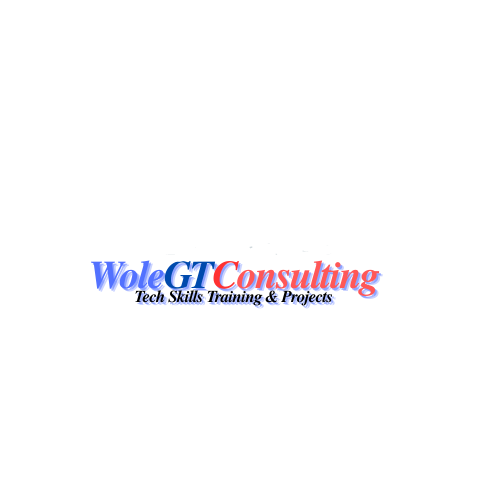
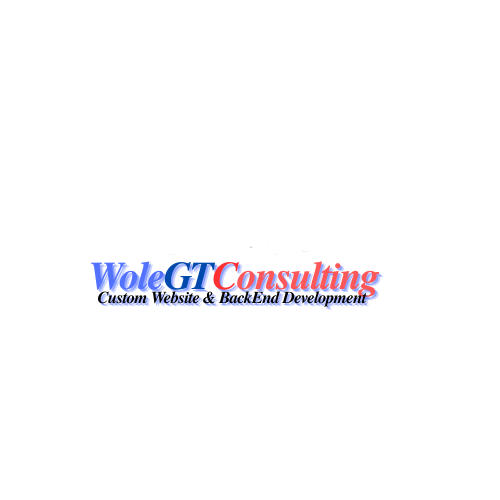
updates

Changed region(s): [[0.18, 0.51, 0.78, 0.63]]

diff --git a/index.html b/index.html
@@ -4,11 +4,12 @@
     <meta charset="utf-8">
     <meta name="viewport" content="width=device-width, initial-scale=1">
     <title>WoleGTConsulting</title>
-    <meta name="Keyword" Content="Web developer, Front-End Development, Back-End Development, Web App Development, Tech Training">
-    <meta name="Keyword" Description="Tech Skills Training, Website Development, Custom Website Solutions">
+    <meta name="Keyword" Content="Custom Website Development,Back-End Freelance Services">
+    <meta name="Keyword" Description="Website Development, Custom Website Solutions">
+    <meta name="Keyword" Author="Wole George-Taylor">
     <link href="https://cdn.jsdelivr.net/npm/bootstrap@5.3.3/dist/css/bootstrap.min.css" rel="stylesheet" integrity="sha384-QWTKZyjpPEjISv5WaRU9OFeRpok6YctnYmDr5pNlyT2bRjXh0JMhjY6hW+ALEwIH" crossorigin="anonymous">
     <link rel="stylesheet" href="https://cdn.jsdelivr.net/npm/bootstrap-icons@1.11.3/font/bootstrap-icons.min.css">
-    <link rel="icon" href="./image/WoleGTConsulting0. (1).png">
+    <link rel="icon" href="./image/WoleGTConsulting2.png">
     
     
     <meta name="Keyword" Author=" Wole George-Taylor">
@@ -72,7 +73,7 @@
             <div class="col-md-12" myClassname>
               <nav class="navbar navbar-expand-lg bg-body-black">
                 <div class="container-fluid">
-                  <a class="navbar-brand links" href="#" style="color: navy;">Wole<span style="color:red">GT</span></a>
+                  <a class="navbar-brand links" href="#" style="color: blue;">Wole<span style="color: navy;">GT</span><span style="color:red">Counsulting</span></a>
                   <button class="navbar-toggler" type="button" data-bs-toggle="collapse" data-bs-target="#navbarSupportedContent" aria-controls="navbarSupportedContent" aria-expanded="false" aria-label="Toggle navigation">
                     <span class="navbar-toggler-icon"></span>
                   </button>
@@ -83,13 +84,13 @@
                       </li>
                       <li class="nav-item dropdown">
                         <a class="nav-link dropdown-toggle links" href="#" role="button" data-bs-toggle="dropdown" aria-expanded="false">
-                          Projects
+                          Projects executed
                         </a>
                         <ul class="dropdown-menu">
-                          <li><a class="dropdown-item" href="https://spicytravelsntour.com">Laravel-front & back end</a></li>
-                          <li><a class="dropdown-item" href="https://theolayemipaul.vercel.app">Book Author Website-WIP</a></li>
+                          <li><a class="dropdown-item" href="https://spicytravelsntour.com">Travel Company</a></li>
+                          <li><a class="dropdown-item" href="https://theolayemipaul.vercel.app">Personal/Book Author</a></li>
                           <li><hr class="dropdown-divider"></li>
-                          <li><a class="dropdown-item" href="./Javascript.html">E-Commerce Web Promotion</a></li>
+                          <li><a class="dropdown-item" href="https://hapilicious-cake.vercel.app/">Startups</a></li>
                         </ul>
                       </li>
                       <li class="nav-item">
@@ -118,7 +119,7 @@
                       
                     </ul>  
                        <!-- <a href="www.goggle.com/wolegtaylor@gmail.com" class="btn btn-outline-success">Send me an Email</a>   -->
-                       <p><a class="emails" href="mailto:info@woleg.tech" target="_blank"><i class="bi bi-envelope"></i> info@wolegt.tech</a></p>
+                       <p><a class="emails" href="mailto:info@woleg.tech" target="_blank"><i class="bi bi-envelope"></i> info@wolegtconsulting.dev</a></p>
                        <br>
                        <!-- <div><a class="" href="" target="_blank"><i class="bi bi-telephone"></i> +234 8023653151</a></div> -->
                        <!-- <button type="button" class="btn btn-success a href="wolegtaylor@gmail.com" >Send me an Email</button> -->
@@ -130,7 +131,7 @@
            <!-- navbar -->
            <!-- body starts here -->
            <div class="col-md-6">
-             <button type="button" class="btn btn-outline-dark" onclick="typeWriter()">Hey, click me </button>
+             <button type="button" class="btn btn-outline-dark" onmouseover="typeWriter()">What we do</button>
              <p id="demo" style="font-size: 30px; color: aquamarine;padding-left: 20px; padding-top: 10px;  border-left: 6px solid black;"></p>            
            </div>
            <div class="col-md-6">
@@ -145,7 +146,10 @@
                   <img src="./image/Screenshot_20241031-121612.png" class="d-block w-100 img-fluid pix" alt="...">
                 </div>
                 <div class="carousel-item">
-                  <img src="./image/Screenshot_20241031-123149_1.png" class="d-block w-100 img-fluid pix" alt="...">
+                  <img src="./image/image-03.jpg" class="d-block w-100 img-fluid pix" alt="...">
+                </div>
+                <div class="carousel-item">
+                  <img src="./image/WoleGTConsulting2.png" class="d-block w-100 img-fluid pix" alt="...">
                 </div>
               </div>
               <button class="carousel-control-prev" type="button" data-bs-target="#carouselExampleAutoplaying" data-bs-slide="prev">
@@ -182,7 +186,7 @@
       
       <script>
         var i = 0;
-        var txt = 'Join my master class and learn: HTML, CSS, JavaScript, MySQL, PHP & Laravel...........email info@wolegt.tech for available slots!';
+        var txt = '*Custom Website Development         *Back-End Development Freelance Services  *PHP|Laravel Stack';
         var speed = 50;
         
         function typeWriter() {

diff --git a/Authored.html b/Authored.html
@@ -38,7 +38,7 @@
   </style>
  </head>
 
- <h1 style="padding: 10px; text-align: center;">These are books <a href="https://www.google.com/search?q=authored+meaning&oq=authored&gs_lcrp=EgZjaHJvbWUqBwgCEAAYgAQyDggAEEUYJxg7GIAEGIoFMgcIARAAGIAEMgcIAhAAGIAEMgcIAxAAGIAEMgcIBBAAGIAEMgwIBRAAGBQYhwIYgAQyDAgGEAAYFBiHAhiABDIHCAcQABiABDIHCAgQABiABDIHCAkQABiABNIBCDQwOThqMGo3qAIAsAIA&sourceid=chrome&ie=UTF-8" target="_blank">Authored</a> by Wole George-Taylor</h1>
+ <h1 style="padding: 10px; text-align: center;">Books <a href="https://www.google.com/search?q=authored+meaning&oq=authored&gs_lcrp=EgZjaHJvbWUqBwgCEAAYgAQyDggAEEUYJxg7GIAEGIoFMgcIARAAGIAEMgcIAhAAGIAEMgcIAxAAGIAEMgcIBBAAGIAEMgwIBRAAGBQYhwIYgAQyDAgGEAAYFBiHAhiABDIHCAcQABiABDIHCAgQABiABDIHCAkQABiABNIBCDQwOThqMGo3qAIAsAIA&sourceid=chrome&ie=UTF-8" target="_blank">Authored</a> by Wole George-Taylor</h1>
  
  <!-- cards -->
  <div class="row">
